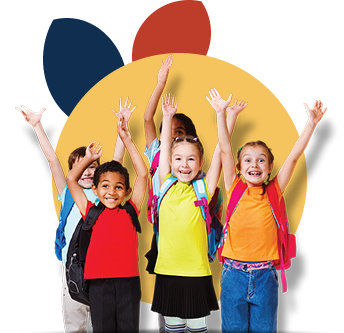
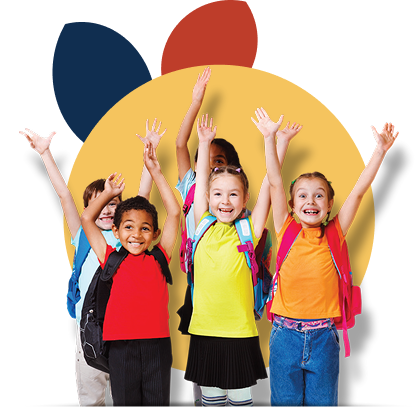
create_benefit

diff --git a/Home.html b/Home.html
@@ -35,16 +35,88 @@
                 <div class="col purpose">
                     <h1>AD Smart Private</h1>
                     <p>
-                        Our AD SMART PRIVATE connects students who want to improve their academic performance through collaborative
+                        Our AD SMART PRIVATE connects students who want to improve their academic performance through
+                        collaborative
                         learning.
-                        Whether you're struggling with a subject or want to help others, this is the right place for you!
+                        Whether you're struggling with a subject or want to help others, this is the right place for
+                        you!
                     </p>
                     <a href="#join" class="btn">Join Now</a>
                 </div>
             </div>
         </div>
-        
+
     </header>
+
+    <section id="benefit">
+        <div class="container">
+            <div class="row">
+                <div class="col">       
+                    <div>
+                        <img src="assets/mini point 2.png" alt="point" />
+                        <div class="icon">                            
+                            <h6>Personalized Learning</h6>
+                            <p>The course likely offers individual attention, allowing tutors to tailor lessons to each student's specific strengths and weaknesses. 
+                                Students can learn at their own pace, which helps in better understanding and retention</p>
+                        </div>
+                        
+                    </div>
+                    <div>
+                        <img src="assets/mini point 3.png" alt="point" />
+                        <div class="icon">                            
+                            <h6>Experienced Tutors</h6>
+                            <p>AD Smart may employ qualified and experienced instructors who are skilled in helping students
+                                grasp difficult concepts and improve academic performance</p>
+                        </div>
+                        
+                    </div>
+                    <div>
+                        <img src="assets/mini point 4.png" alt="point" />
+                        <div class="icon">                            
+                            <h6>Flexible Schedule</h6>
+                            <p>Private courses often offer flexible class times, which can accommodate students' school schedules and other commitments.</p>
+                        </div>
+                        
+                    </div>
+                    <div>
+                        <img src="assets/mini point 5.png" alt="point" />
+                        <div class="icon">                            
+                            <h6>Improved Academic Performance</h6>
+                            <p>Focused tutoring and consistent practice usually lead to higher grades and better test results.</p>
+                        </div>
+                        
+                    </div>
+                    <div>
+                        <img src="assets/mini point 1.png" alt="point" />
+                        <div class="icon">                            
+                            <h6>Supportive Learning Environment</h6>
+                            <p>With smaller class sizes or one-on-one sessions, students often feel more comfortable asking questions and expressing confusion without fear of judgment.</p>
+                        </div>
+                        
+                    </div>
+                    <div>
+                        <img src="assets/mini point 6.png" alt="point" />
+                        <div class="icon">                            
+                            <h6>Skill Development</h6>
+                            <p>In addition to academic subjects, AD Smart may also offer training in soft skills, exam strategies, or language proficiency, which are valuable for long-term success.</p>
+                        </div>
+                       
+                    </div>
+                    <div>
+                        <img src="assets/mini point 7.png" alt="point" />
+                        <div class="icon">                            
+                            <h6>Parental Involvement</h6>
+                            <p>Private courses often provide regular updates to parents, enabling better tracking of the student’s progress and areas that need improvement.</p>
+                        </div>
+                        
+                    </div>
+                </div>
+                <div class="col">
+                    <img src="assets/benefit.png" alt="child" />
+                </div>
+            </div>
+        </div>
+    </section>
 
     <section id="testimonials">
         <div>

diff --git a/home.css b/home.css
@@ -62,7 +62,7 @@ header .row {
 }
 
 header .col img {
-  width: 70%;
+  width: auto;
   height: auto;
   margin-bottom: 20px;
 }
@@ -102,7 +102,30 @@ header .btn:hover {
   background-color: #e78b48;
 }
 
-section {
+/* Benefit */
+#benefit {
+  background-color: #102E50;
+}
+
+#benefit .col p {
+  color: #EFEEEA;
+    font-size: 12px;
+    font-weight: lighter;
+    text-align: justify;
+}
+
+#benefit .col h6 {
+  font-weight: bolder;
+    color: #EFEEEA;
+}
+
+#benefit .icon {
+  display: flex;
+    align-items: anchor-center;
+    gap: 20px;
+}
+
+#join {
   padding: 40px 20px;
   max-width: 800px;
   margin: 0 auto;
